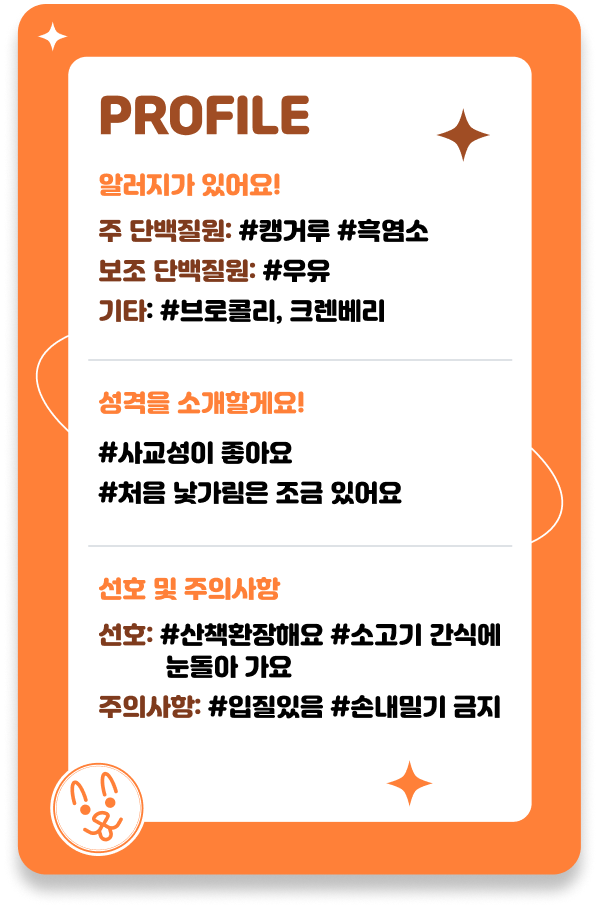
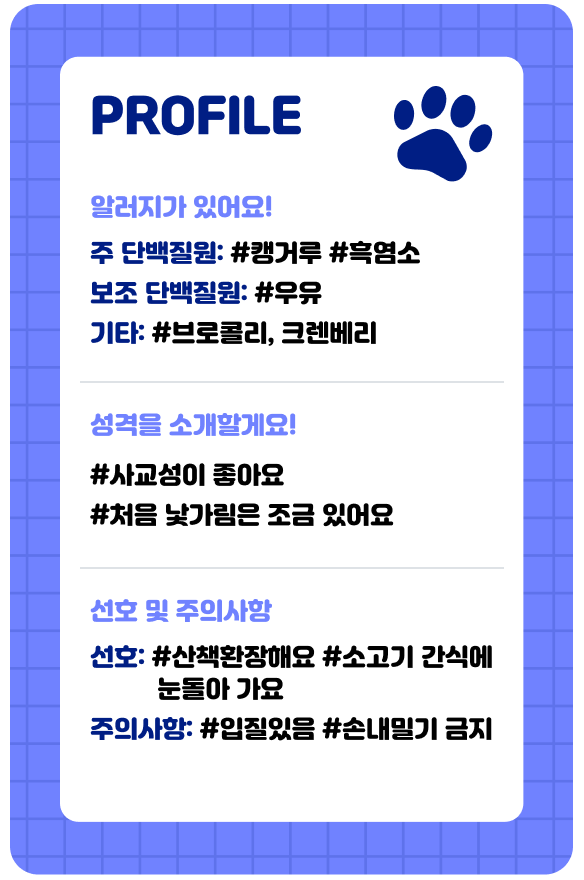
fix: 펫명함 화면 구현 방식 변경

diff --git a/src/app/(card)/share/businesscard/components/BusinessCardRectangleFront.tsx b/src/app/(card)/share/businesscard/components/BusinessCardRectangleFront.tsx
@@ -1,9 +1,10 @@
 import localFont from 'next/font/local';
 import Image from 'next/image';
+import type { RefObject } from 'react';
 
 import { flexCenter, flexColCenter, flexRow } from '@/styles/ogoo/alignment.css';
-import { primary, secondary, whiteText } from '@/styles/ogoo/colors.css';
-import { bodyLg, caption, titleMd } from '@/styles/ogoo/typography.css';
+import { whiteText } from '@/styles/ogoo/colors.css';
+import { bodyMd, titleMd } from '@/styles/ogoo/typography.css';
 import type { BusinessCardFormData } from '@/types';
 import { birthFomatter, cn } from '@/utils';
 
@@ -14,44 +15,50 @@ const JalnanFont = localFont({
 interface Props {
   isPrimary: boolean;
   businessCardFormData: BusinessCardFormData;
+  businesscardFrontRef: RefObject<HTMLDivElement>;
 }
 
-export const BusinessCardRectangleFront = ({ isPrimary, businessCardFormData }: Props) => {
-  const isPrimaryColorChange = `mr-0.5 ${isPrimary ? 'text-[#492FA5]' : 'text-[#A04D24]'}`;
-
+export const BusinessCardRectangleFront = ({
+  isPrimary,
+  businessCardFormData,
+  businesscardFrontRef,
+}: Props) => {
   return (
     <div className={flexCenter}>
       <div
+        ref={businesscardFrontRef}
         className={cn(
           flexColCenter,
           JalnanFont.className,
-          isPrimary
-            ? 'relative w-[292px] h-[440px] bg-[#734EF7] rounded-2xl justify-center'
-            : 'relative w-[292px] h-[440px] bg-[#FF8038] rounded-2xl justify-center',
+          'relative w-[292px] h-[440px] justify-center',
         )}
-        style={{
-          backgroundImage: isPrimary
-            ? 'repeating-linear-gradient(90deg, transparent, transparent 23px, #492FA5 25px), repeating-linear-gradient(180deg, transparent, transparent 23px, #492FA5 25px)'
-            : 'repeating-linear-gradient(90deg, transparent, transparent 23px, #EA5A2E 25px), repeating-linear-gradient(180deg, transparent, transparent 23px, #EA5A2E 25px)',
-
-          backgroundSize: '50px 50px',
-        }}
       >
-        <>
-          <Image
-            className="absolute top-4 right-3"
-            src="/svg/ogooLogo.svg"
-            alt=""
-            width={80}
-            height={32}
-            priority
-            style={{
-              filter: isPrimary
-                ? 'invert(20%) sepia(27%) saturate(3000%) hue-rotate(242deg) brightness(55%) contrast(120%)'
-                : 'invert(32%) sepia(39%) saturate(4000%) hue-rotate(342deg) brightness(40%) contrast(86%)',
-            }}
-          />
-        </>
+        {isPrimary ? (
+          <>
+            <Image className="" src="/img/background_primary.png" alt="" fill priority />
+            <Image
+              className="absolute top-4 right-3"
+              src="/svg/nametag_primary.svg"
+              alt=""
+              width={80}
+              height={32}
+              priority
+            />
+          </>
+        ) : (
+          <>
+            <Image className="" src="/img/background_sub.png" alt="" fill priority />
+            <Image
+              className="absolute top-4 right-3"
+              src="/svg/nametag_sub.svg"
+              alt=""
+              width={80}
+              height={32}
+              priority
+            />
+          </>
+        )}
+        <></>
 
         <div className="absolute top-14 w-[198px] h-[253px] border-2 border-white z-20">
           <Image
@@ -61,60 +68,51 @@ export const BusinessCardRectangleFront = ({ isPrimary, businessCardFormData }: 
             alt=""
             priority
           />
-          <Image
-            className="absolute bottom-0 right-0 z-15 mr-[-20px] mb-[-20px]"
-            src="/svg/dogfoot.svg"
-            alt=""
-            width={49}
-            height={49}
-            priority
-            style={{
-              filter: isPrimary
-                ? 'invert(20%) sepia(27%) saturate(3000%) hue-rotate(242deg) brightness(55%) contrast(120%)'
-                : 'invert(32%) sepia(39%) saturate(4000%) hue-rotate(342deg) brightness(40%) contrast(86%)',
-            }}
-          />
+          {isPrimary ? (
+            <Image
+              className="absolute bottom-0 right-0 z-15 mr-[-20px] mb-[-20px]"
+              src="/svg/dogfoot_primary.svg"
+              alt=""
+              width={49}
+              height={49}
+              priority
+            />
+          ) : (
+            <Image
+              className="absolute bottom-0 right-0 z-15 mr-[-20px] mb-[-20px]"
+              src="/svg/dogfoot_sub.svg"
+              alt=""
+              width={49}
+              height={49}
+              priority
+            />
+          )}
         </div>
         <div className={cn(whiteText, 'absolute top-80 w-[198px] z-10')}>
           <div className={flexRow}>
             <p className={cn(titleMd, 'mr-2')}>{businessCardFormData.petName}</p>
             {businessCardFormData.gender === '수컷' ? (
-              <Image
-                src="/svg/male_icon.svg"
-                alt=""
-                width={24}
-                height={24}
-                priority
-                style={{
-                  filter:
-                    'invert(100%) sepia(1%) saturate(0%) hue-rotate(314deg) brightness(104%) contrast(100%)',
-                }}
-              />
+              <Image src="/svg/maleicon.svg" alt="" width={24} height={20} priority />
             ) : (
               <Image
                 className="absolute top-[265px] left-[37px] text-center z-10"
-                src="/svg/female_icon.svg"
+                src="/svg/femaleicon.svg"
                 alt=""
                 width={24}
-                height={24}
+                height={20}
                 priority
-                style={{
-                  filter:
-                    'invert(100%) sepia(1%) saturate(0%) hue-rotate(314deg) brightness(104%) contrast(100%)',
-                }}
               />
             )}
           </div>
-          <p className={bodyLg}>{birthFomatter(businessCardFormData.birth)}</p>
-          <p className={bodyLg}>
-            {businessCardFormData.neutralization ? '중성화 수술 O' : '중성화 수술 X'}
-          </p>
+          <p className={bodyMd}>{birthFomatter(businessCardFormData.birth)}</p>
+          <p className={bodyMd}>{businessCardFormData.species}</p>
+          <p className={bodyMd}>{businessCardFormData.neutralization ? '중성화 O' : '중성화 X'}</p>
         </div>
 
         {isPrimary ? (
           <Image
             className="absolute left-4 top-8 z-30"
-            src="/svg/dogmark_purple.svg"
+            src="/svg/dogmark_primary.svg"
             alt=""
             width={48}
             height={48}
@@ -123,7 +121,7 @@ export const BusinessCardRectangleFront = ({ isPrimary, businessCardFormData }: 
         ) : (
           <Image
             className="absolute left-4 top-8 z-30"
-            src="/svg/dogmark_orange.svg"
+            src="/svg/dogmark_sub.svg"
             alt=""
             width={48}
             height={48}

diff --git a/src/app/(card)/share/businesscard/components/BusinessCardBack.tsx b/src/app/(card)/share/businesscard/components/BusinessCardBack.tsx
@@ -1,5 +1,6 @@
 import localFont from 'next/font/local';
 import Image from 'next/image';
+import type { RefObject } from 'react';
 
 import { flexCenter, flexColCenter, flexRow } from '@/styles/ogoo/alignment.css';
 import { primary, secondary } from '@/styles/ogoo/colors.css';
@@ -12,92 +13,58 @@ const JalnanFont = localFont({
 });
 
 interface Props {
-  roundType: boolean;
   isPrimary: boolean;
   businessCardFormData: BusinessCardFormData;
+  businesscardBackRef: RefObject<HTMLDivElement>;
 }
 
-export const BusinessCardBack = ({ roundType, isPrimary, businessCardFormData }: Props) => {
-  const isPrimaryColorChange = `mr-0.5 ${isPrimary ? 'text-[#492FA5]' : 'text-[#A04D24]'}`;
+export const BusinessCardBack = ({
+  isPrimary,
+  businessCardFormData,
+  businesscardBackRef,
+}: Props) => {
+  const isPrimaryColorChange = `mr-0.5 ${isPrimary ? 'text-[#492FA5]' : 'text-[#00643B]'}`;
 
   return (
     <div className={flexCenter}>
       <div
+        ref={businesscardBackRef}
         className={cn(
           flexColCenter,
           JalnanFont.className,
-          isPrimary
-            ? 'relative w-[281px] min-h-[440px] bg-[#734EF7] rounded-2xl justify-center'
-            : 'relative w-[281px] min-h-[440px] bg-[#FF8038] rounded-2xl justify-center',
+          'relative w-[281px] min-h-[440px] justify-center',
         )}
-        style={{
-          backgroundImage: roundType
-            ? 'none'
-            : isPrimary
-            ? 'repeating-linear-gradient(90deg, transparent, transparent 23px, #492FA5 25px), repeating-linear-gradient(180deg, transparent, transparent 23px, #492FA5 25px)'
-            : 'repeating-linear-gradient(90deg, transparent, transparent 23px, #EA5A2E 25px), repeating-linear-gradient(180deg, transparent, transparent 23px, #EA5A2E 25px)',
-
-          backgroundSize: '50px 50px',
-        }}
       >
-        {roundType ? (
-          <>
-            <Image
-              className="absolute top-2 left-2"
-              src="/svg/star.svg"
-              alt=""
-              width={15}
-              height={15}
-              priority
-            />
-            <Image
-              className="absolute top-1/2 left-1/2 transform -translate-x-1/2 -translate-y-1/2"
-              src="/svg/ring.svg"
-              alt=""
-              width={272}
-              height={96}
-              priority
-            />
-          </>
+        {isPrimary ? (
+          <Image className="" src="/img/background_primary.png" alt="" fill priority />
         ) : (
-          <></>
+          <Image className="" src="/img/background_sub.png" alt="" fill priority />
         )}
+        <></>
 
-        <div className="bg-white w-[231px] min-h-[382px] rounded-2xl z-20 m-8">
+        <div className="absolute top-[26px] left-[25px] bg-white w-[231px] min-h-[382px] rounded-2xl z-10">
           <div className="p-4">
-            <h1 className={cn(titleMd, `${isPrimary ? 'text-[#492FA5]' : 'text-[#A04D24]'}`)}>
+            <h1 className={cn(titleMd, `${isPrimary ? 'text-[#492FA5]' : 'text-[#00643B]'}`)}>
               Profile
             </h1>
-            {roundType ? (
+            {isPrimary ? (
               <Image
-                className="absolute top-14 right-12"
-                src="/svg/star.svg"
+                className="absolute top-10 right-12 z-20"
+                src="/svg/dogfoot_primary.svg"
                 alt=""
-                width={27}
-                height={27}
+                width={49}
+                height={49}
                 priority
-                style={{
-                  filter: isPrimary
-                    ? 'invert(20%) sepia(27%) saturate(3000%) hue-rotate(242deg) brightness(55%) contrast(120%)'
-                    : 'invert(32%) sepia(39%) saturate(4000%) hue-rotate(342deg) brightness(60%) contrast(86%)',
-                }}
               />
             ) : (
-              <>
-                <Image
-                  className="absolute top-10 right-12"
-                  src="/svg/dogfoot.svg"
-                  alt=""
-                  width={49}
-                  height={49}
-                  priority
-                  style={{
-                    filter: isPrimary
-                      ? 'invert(20%) sepia(27%) saturate(3000%) hue-rotate(242deg) brightness(55%) contrast(120%)'
-                      : 'invert(32%) sepia(39%) saturate(4000%) hue-rotate(342deg) brightness(40%) contrast(86%)',
-                  }}
-                />
-              </>
+              <Image
+                className="absolute top-10 right-12 z-20"
+                src="/svg/dogfoot_sub.svg"
+                alt=""
+                width={49}
+                height={49}
+                priority
+              />
             )}
             <div className={caption}>
               <div className="py-4">
@@ -135,7 +102,7 @@ export const BusinessCardBack = ({ roundType, isPrimary, businessCardFormData }:
                       )}
                     </div>
                     <div className={flexRow}>
-                      <p className={cn(isPrimaryColorChange, 'min-w-[21px]')}>기타:</p>
+                      <p className={cn(isPrimaryColorChange, 'min-w-[28px]')}>기타:</p>
                       {businessCardFormData.etcAllerge?.length !== 0 ? (
                         <div className="flex flex-wrap gap-0.5">
                           {businessCardFormData.etcAllerge!.map((allerge: string) => (
@@ -178,22 +145,7 @@ export const BusinessCardBack = ({ roundType, isPrimary, businessCardFormData }:
             </div>
           </div>
         </div>
-        {roundType && (
-          <Image
-            className="absolute bottom-8 right-20 z-30"
-            src="/svg/star.svg"
-            alt=""
-            width={23}
-            height={23}
-            priority
-            style={{
-              filter: isPrimary
-                ? 'invert(26%) sepia(74%) saturate(3800%) hue-rotate(244deg) brightness(75%) contrast(75%)'
-                : 'invert(54%) sepia(84%) saturate(1200%) hue-rotate(335deg) brightness(94%) contrast(101%)',
-            }}
-          />
-        )}
-        {roundType &&
+        {/* {roundType &&
           (isPrimary ? (
             <Image
               className="absolute left-4 bottom-2 z-30"
@@ -212,7 +164,7 @@ export const BusinessCardBack = ({ roundType, isPrimary, businessCardFormData }:
               height={48}
               priority
             />
-          ))}
+          ))} */}
       </div>
     </div>
   );
